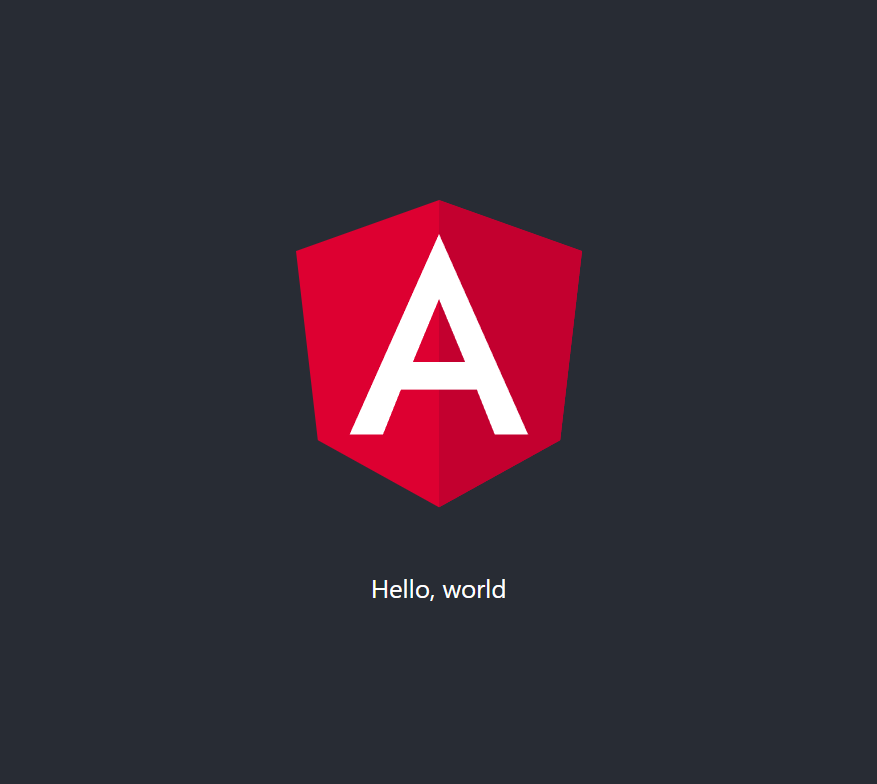
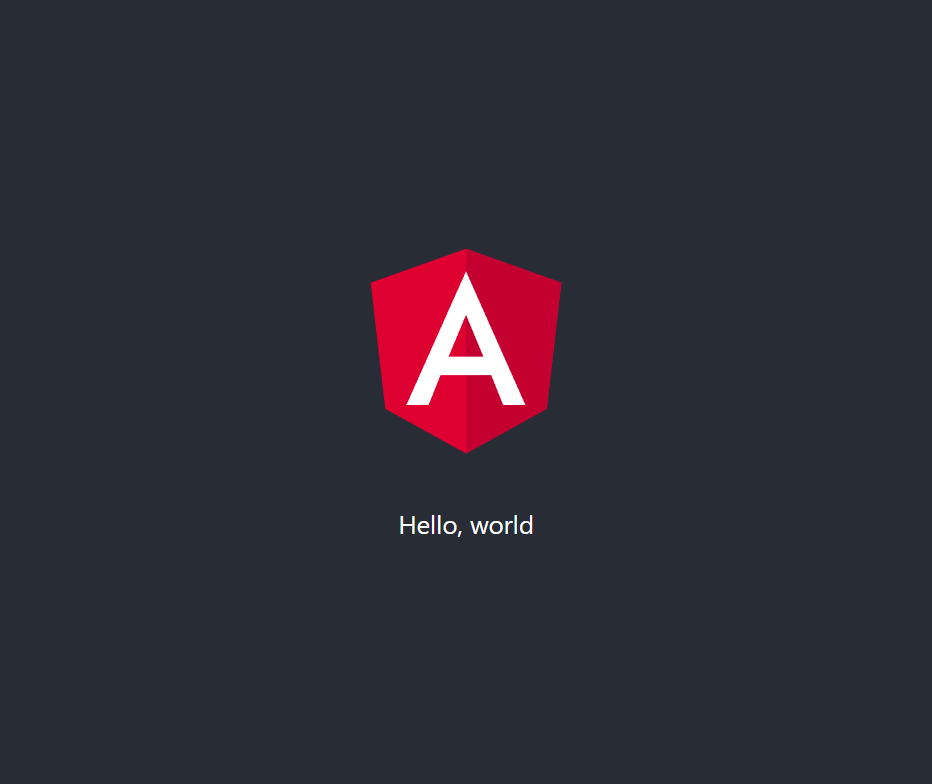
fix

Changed region(s): [[0.3387, 0.2449, 0.6773, 0.7041], [0.4002, 0.7347, 0.5849, 0.7653]]

diff --git a/WebApplication/Angular/01_HelloWorld/src/app/app.component.html b/WebApplication/Angular/01_HelloWorld/src/app/app.component.html
@@ -42,7 +42,7 @@
 <div class="content" role="main">
   <header className="App-header">
     <img
-      width="384"
+      width="256"
       alt="Angular Logo"
[1 lines of base64/hex data omitted]
     />

diff --git a/WebApplication/React.js/01_HelloWorld/public/index.html b/WebApplication/React.js/01_HelloWorld/public/index.html
@@ -24,7 +24,7 @@
       work correctly both with client-side routing and a non-root public URL.
       Learn how to configure a non-root public URL by running `npm run build`.
     -->
-    <title>React App</title>
+    <title>demo</title>
   </head>
   <body>
     <noscript>You need to enable JavaScript to run this app.</noscript>

diff --git a/WebApplication/Angular/01_HelloWorld/README.md b/WebApplication/Angular/01_HelloWorld/README.md
@@ -12,7 +12,13 @@
 ## How to usage?
 
 ````cmd
-$ ng serve --host 0.0.0.0 --port 8080
+$ npm install
+````
+
+Then, run app on local server
+
+````cmd
+$ npx ng serve --host 0.0.0.0 --port 8080
 ````
 
 <img src="./images/index.png" />

diff --git a/WebApplication/Vue.js/01_HelloWorld/README.md b/WebApplication/Vue.js/01_HelloWorld/README.md
@@ -12,6 +12,12 @@
 ## How to usage?
 
 ````cmd
+$ npm install
+````
+
+Then, run app on local server
+
+````cmd
 $ npm run serve
 ````
 

diff --git a/WebApplication/React.js/01_HelloWorld/README.md b/WebApplication/React.js/01_HelloWorld/README.md
@@ -12,6 +12,12 @@
 ## How to usage?
 
 ````cmd
+$ npm install
+````
+
+Then, run app on local server
+
+````cmd
 $ npm start
 ````
 
